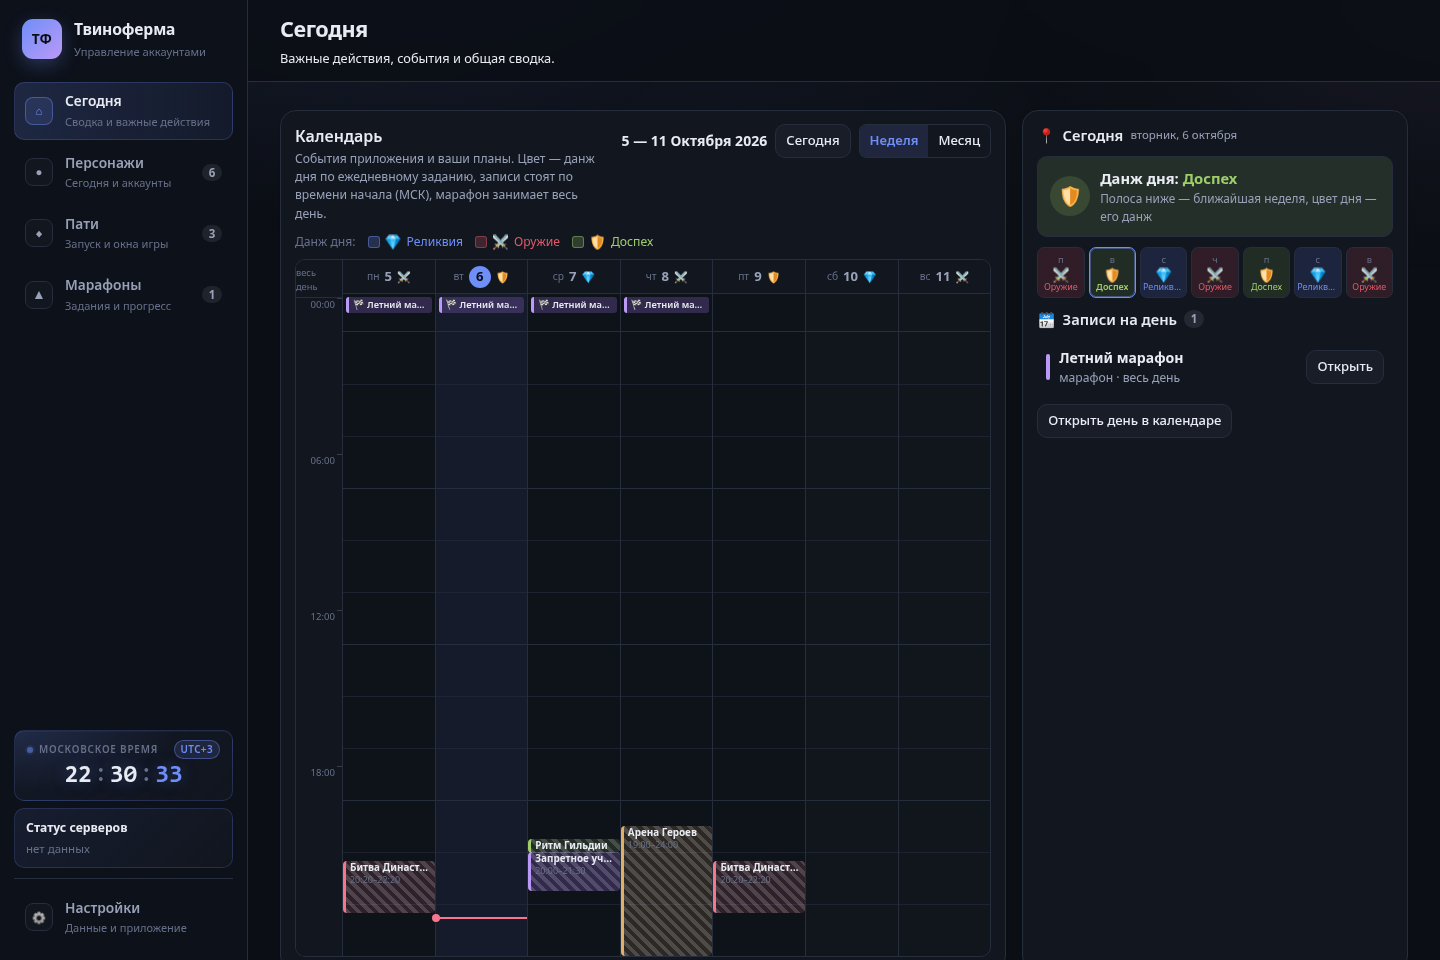
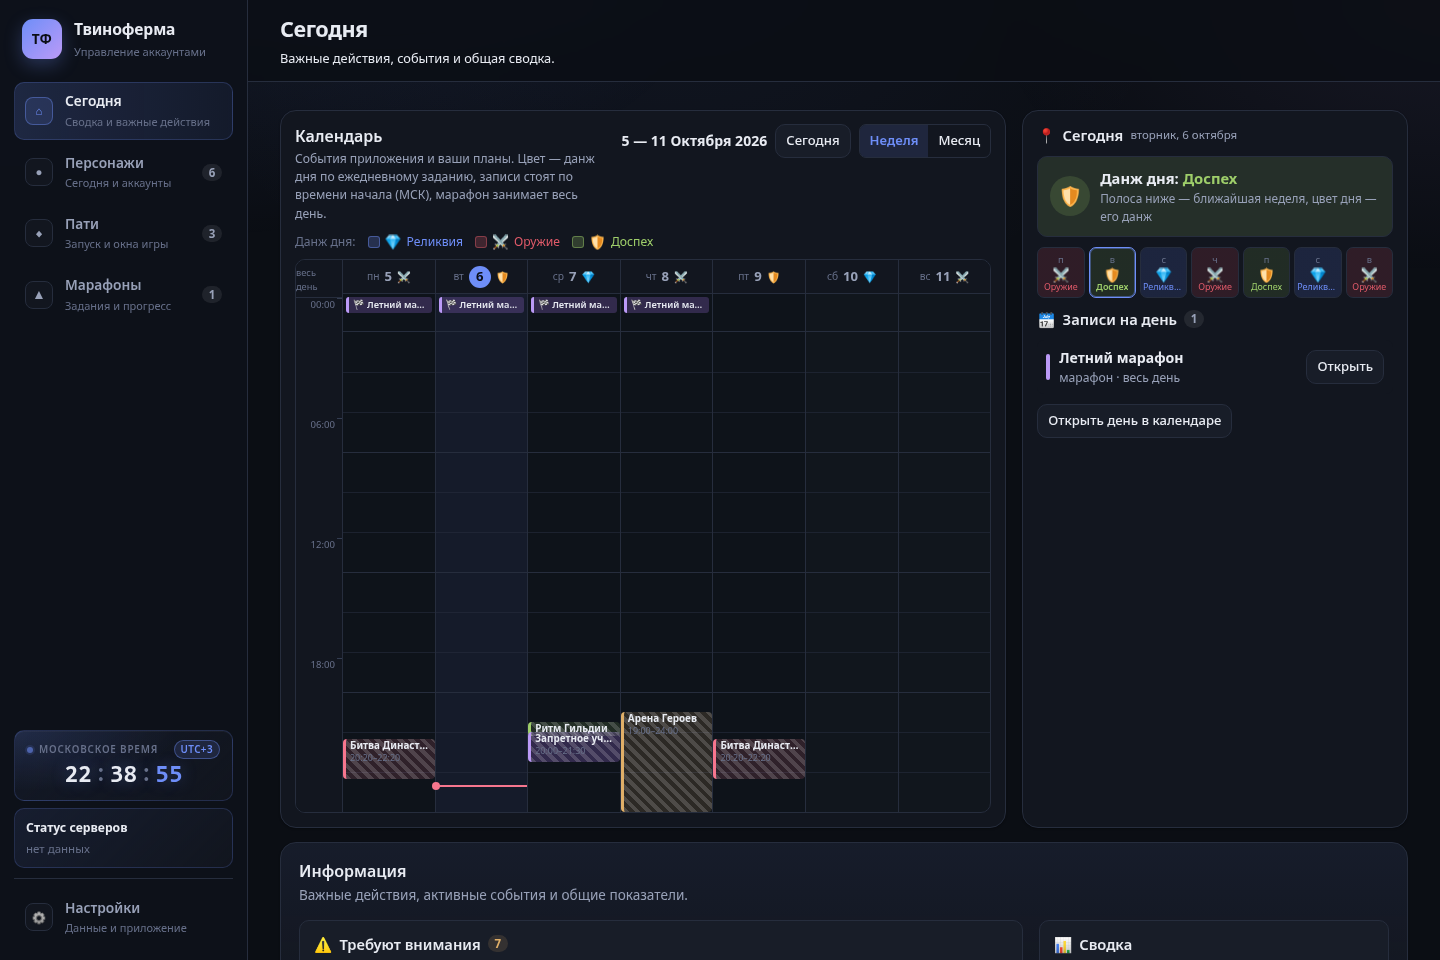
Календарь: высота суток 480 px (HOUR_HEIGHT 20), высота ячейки задаётся из weekView.js

Changed region(s): [[0.1875, 0.7188, 0.5625, 1.0], [0.2188, 0.75, 0.3125, 0.8125], [0.7188, 0.9688, 0.7812, 1.0]]

diff --git a/js/modules/dashboard/plannerView.js b/js/modules/dashboard/plannerView.js
@@ -4,7 +4,7 @@ import { escapeHtml } from '../../core/utils.js';
 import { showModal, closeModal, confirmModal, toast } from '../../core/ui.js';
 import { localDate, monthMatrix, normalizePlannerEntry, plannerEventsForDate } from './planner.js';
 import { timelineBlocks, hourMarks, timeToMinutes, eventEndTime, DEFAULT_DURATION_MINUTES, DAY_MINUTES } from './timeline.js';
-import { weekDays, weekRangeTitle, weekLayout, allDayHeight, weekHours, nowLineTop, HOUR_HEIGHT } from './weekView.js';
+import { weekDays, weekRangeTitle, weekLayout, allDayHeight, weekHours, nowLineTop, HOUR_HEIGHT, CELL_HEIGHT } from './weekView.js';
 import { dungeonInfoForDate, DUNGEON_NAMES, DUNGEON_ICONS, DUNGEON_CYCLE } from '../dungeons/schedule.js';
 // Время по Москве: линия «сейчас» в клетке месяца и прокрутка недели к текущему часу
 import { mskMinutes } from '../../core/msk.js';
@@ -122,7 +122,7 @@ function weekHtml(appState) {
 
   return `
     <div class="cal-week"
-         style="--allday-rows:${ownRows}"
+         style="--allday-rows:${ownRows};--hour-h:${HOUR_HEIGHT}px;--cell-h:${CELL_HEIGHT}px"
          aria-label="Неделя: 7 дней, время сверху вниз, сутки ${trackH} пикселей">
       <div class="cal-week-side">
         ${hasAllDay ? `<div class="cal-week-allday" style="height:${allDayH}px">

diff --git a/css/modules/today.css b/css/modules/today.css
@@ -506,7 +506,8 @@
    Время общее для всех колонок, поэтому видно и загруженность дня, и свободные часы.
    Сутки показаны целиком, без прокрутки: неделя читается одним взглядом.
    Высота часа задана переменной (js: HOUR_HEIGHT) — ось и блоки считаются от неё, иначе разъедутся. */
-.planner.is-week { --hour-h: 26px; --cell-h: 52px; }
+/* Высота ячейки приходит из weekView.js (CELL_HEIGHT) через style у .cal-week; здесь запасное значение */
+.planner.is-week { --hour-h: 20px; --cell-h: 40px; }
 
 .planner-switch { display: inline-flex; border: 1px solid var(--border); border-radius: var(--radius-xs); overflow: hidden; }
 .planner-switch .btn { border: 0; border-radius: 0; }

diff --git a/tests/plannerWeek.test.js b/tests/plannerWeek.test.js
@@ -105,9 +105,9 @@ describe('раскладка недели', () => {
     expect(cells[2].label).toBe('');
     expect(cells[3].label).toBe('06:00');
     expect(cells.filter(h => h.isMajor).map(h => h.label)).toEqual(['00:00', '06:00', '12:00', '18:00']);
-    // Сутки целиком укладываются в 624 px: неделя видна одним взглядом, без прокрутки часов
-    expect(24 * HOUR_HEIGHT).toBe(624);
-    expect(cells.length * CELL_HEIGHT).toBe(624);
+    // Сутки целиком укладываются в 480 px: неделя видна одним взглядом, без прокрутки часов
+    expect(24 * HOUR_HEIGHT).toBe(480);
+    expect(cells.length * CELL_HEIGHT).toBe(480);
     expect(HOUR_HEIGHT).toBeLessThan(30);
   });
 });

diff --git a/js/modules/dashboard/weekView.js b/js/modules/dashboard/weekView.js
@@ -28,7 +28,7 @@ export const WEEK_FIRST_OFFSET = -1;
  * Сутки показываются целиком и без прокрутки: неделя должна читаться одним взглядом.
  * Поэтому час ниже, чем в окне дня (там важна точность, здесь — общая картина недели).
  */
-export const HOUR_HEIGHT = 26;
+export const HOUR_HEIGHT = 20;
 
 /** Высота одной дорожки «весь день»: марафон и записи без времени. */
 export const ALLDAY_ROW_HEIGHT = 26;
